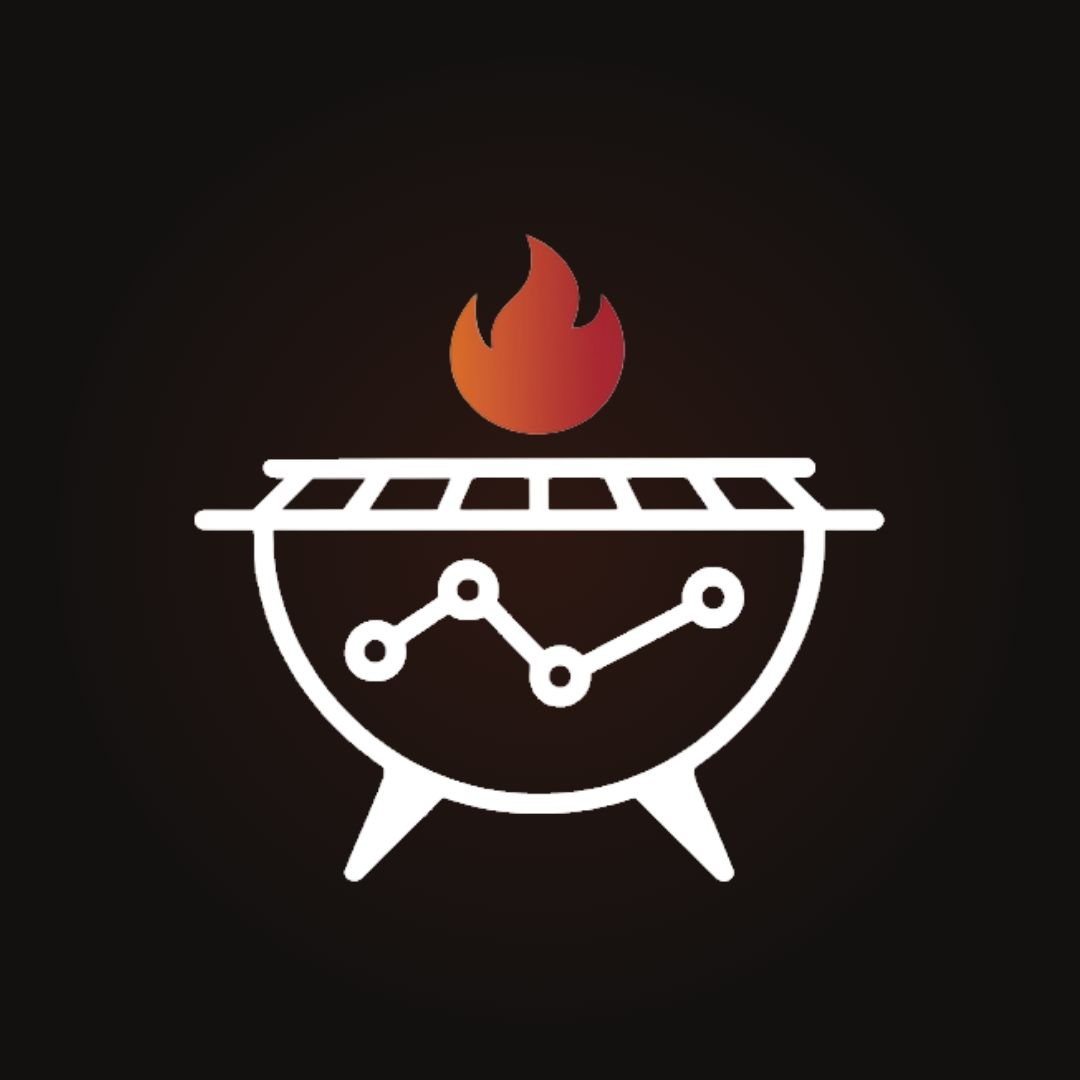
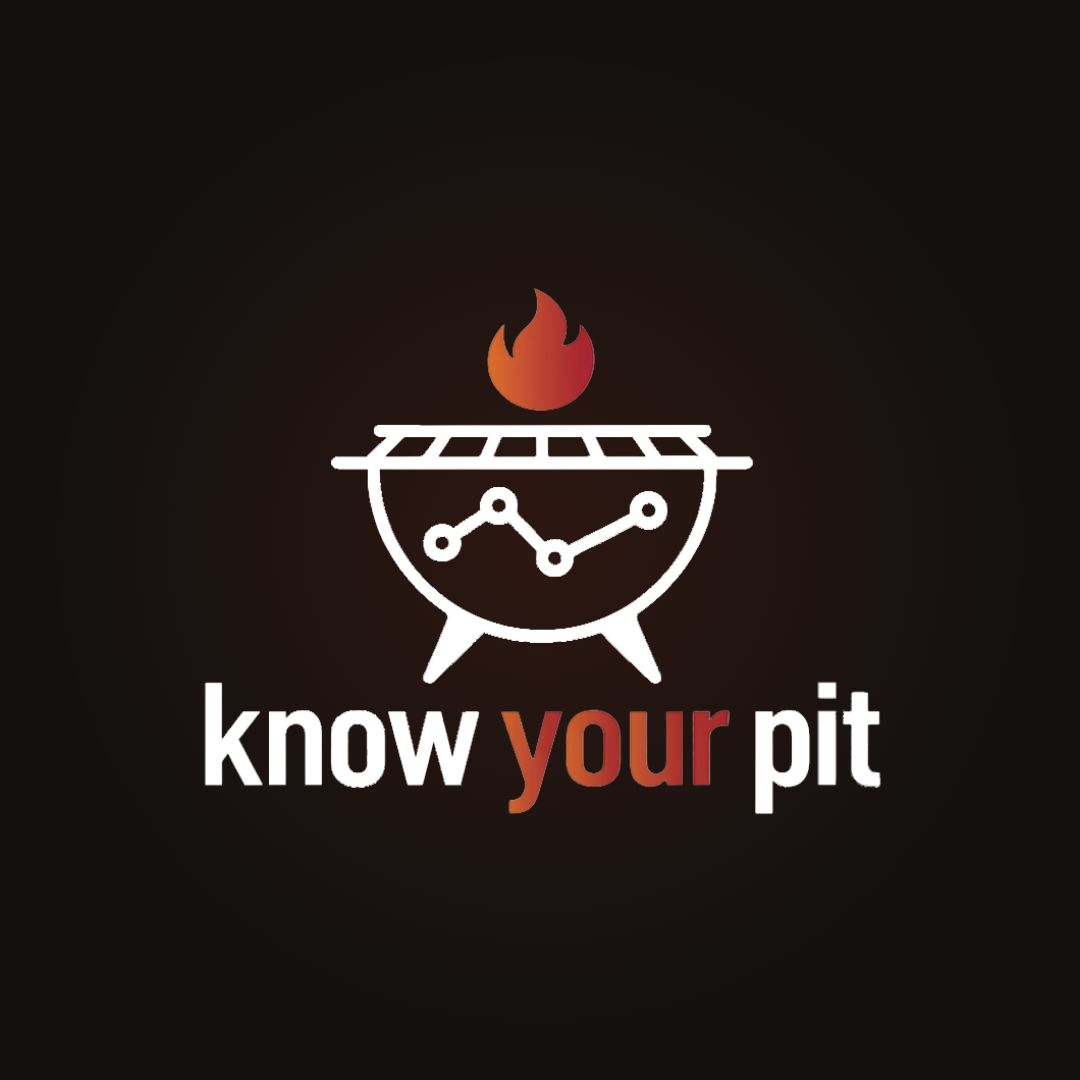
Update branding asset metadata and social card image
Replit-Commit-Author: Agent

Changed region(s): [[0.1833, 0.2139, 0.825, 0.825]]

diff --git a/artifacts/marketing/public/social/card-brand.html b/artifacts/marketing/public/social/card-brand.html
@@ -26,7 +26,7 @@
 <body>
   <div class="bg-glow"></div>
   <div class="content">
-    <img class="logo" src="../icon-transparent-light.png" alt="know your pit">
+    <img class="logo" src="../logo.png" alt="know your pit">
   </div>
 </body>
 </html>
